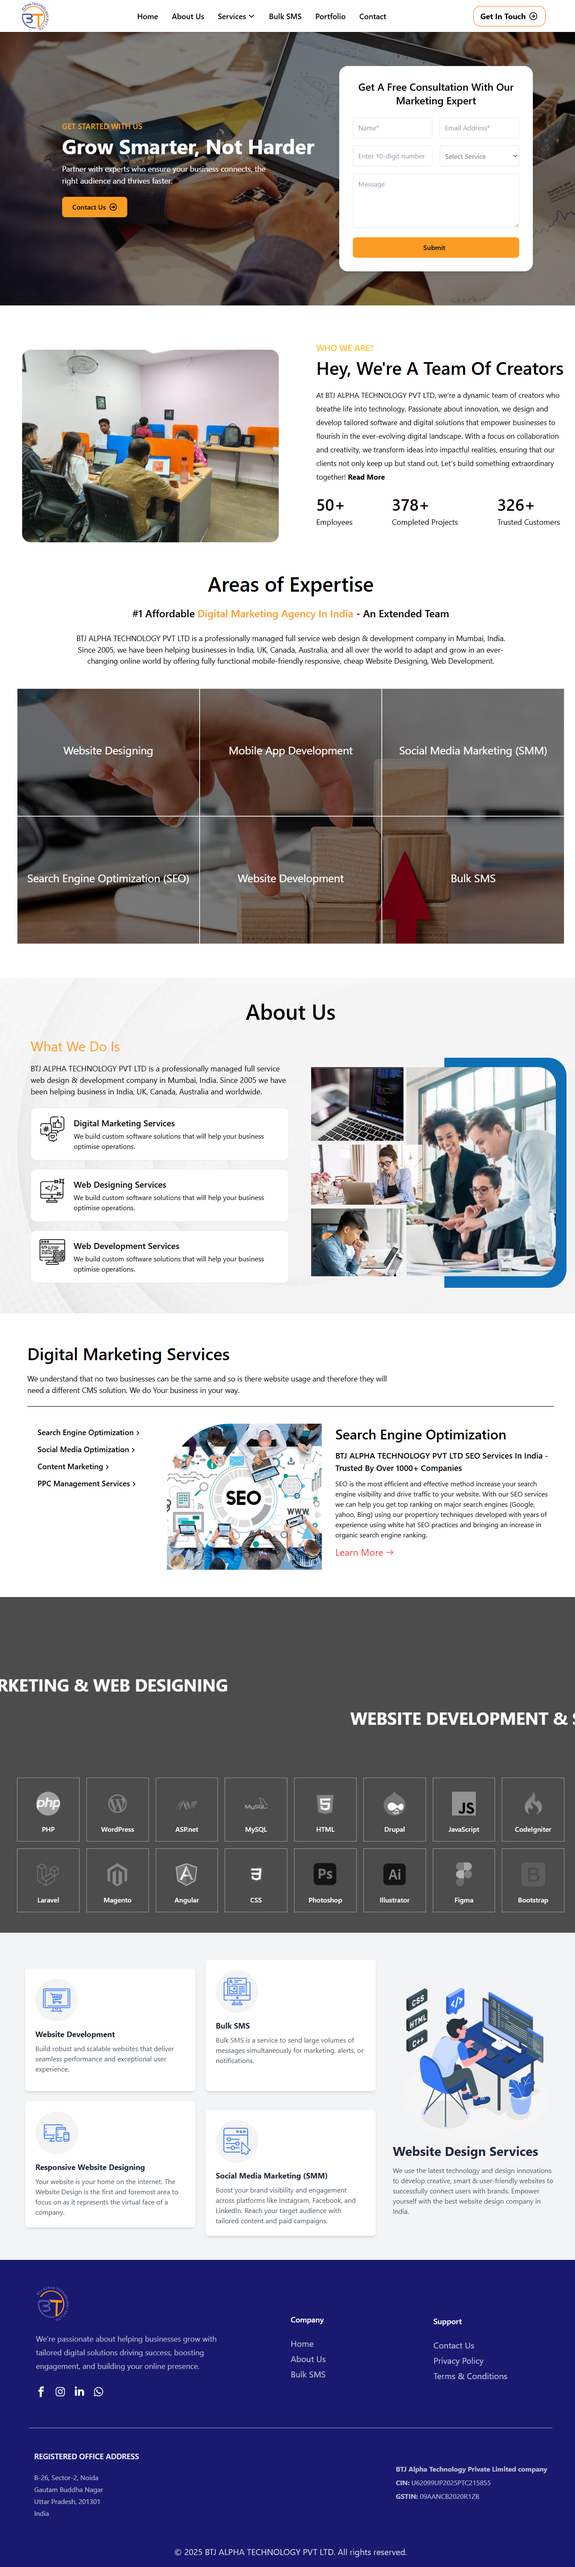
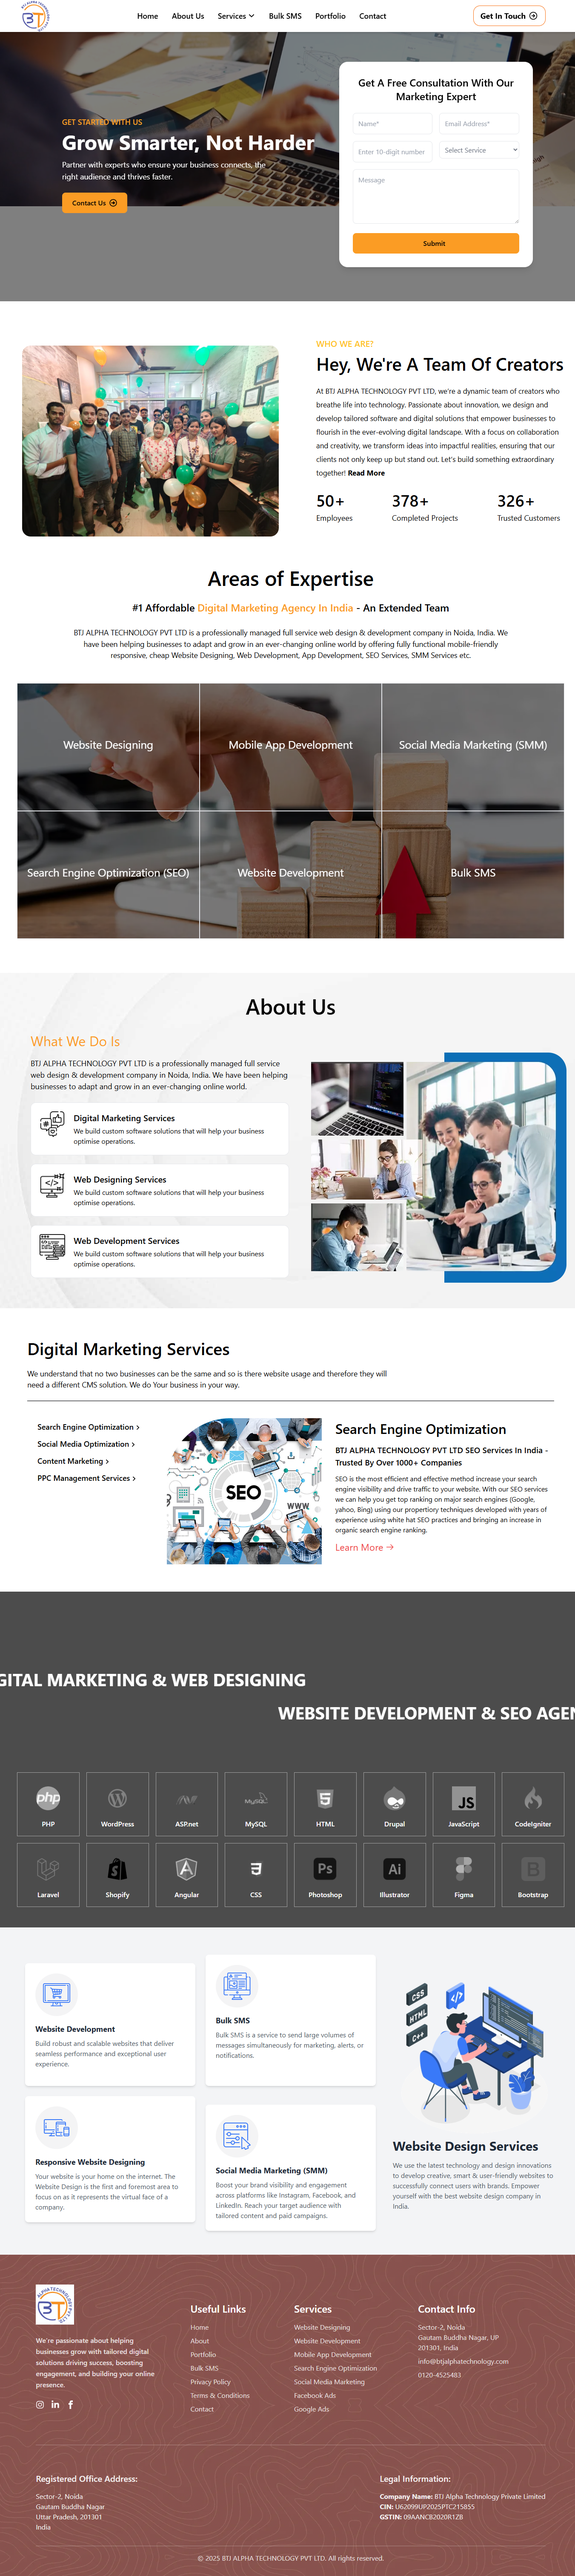
updated changes

diff --git a/src/components/HomePageData.js b/src/components/HomePageData.js
@@ -9,7 +9,7 @@ import figma from "../assets/images/Home-page/icons/figma.png";
 import illustrator from "../assets/images/Home-page/icons/illustrator.png";
 import js from "../assets/images/Home-page/icons/js.png";
 import laravel from "../assets/images/Home-page/icons/laravel.png";
-import magento from "../assets/images/Home-page/icons/magento.png";
+import shopify from "../assets/images/Home-page/icons/shopify.png";
 import mysql from "../assets/images/Home-page/icons/mysql.png";
 import photoshop from "../assets/images/Home-page/icons/photoshop.png";
 import wordpress from "../assets/images/Home-page/icons/wordpress.png";
@@ -25,7 +25,7 @@ const technologies = [
   { name: "JavaScript", icon: js },
   { name: "CodeIgniter", icon: ci },
   { name: "Laravel", icon: laravel },
-  { name: "Magento", icon: magento },
+  { name: "Shopify", icon: shopify },
   { name: "Angular", icon: angular },
   { name: "CSS", icon: css },
   { name: "Photoshop", icon: photoshop },

diff --git a/src/components/UserForm.jsx b/src/components/UserForm.jsx
@@ -95,12 +95,12 @@ const UserForm = () => {
             )}
           </div>
 
-          <div className="w-1/2">
+          <div className="w-1/2 ">
             <select
               name="service"
               value={selected}
               onChange={(e) => setSelected(e.target.value)}
-              className={`w-full p-2 border rounded-lg 
+              className={`w-full h-[50px] p-2 border rounded-lg 
                           ${selected === "" ? "text-gray-500" : "text-black"} 
                           bg-white focus:outline-none`}
               required

diff --git a/src/pages/services_pages/WebsiteDevelopment.jsx b/src/pages/services_pages/WebsiteDevelopment.jsx
@@ -381,7 +381,7 @@ function WebsiteDevelopment() {
           SEO- <span className="text-blue-800">Friendly Web Design</span>
         </h2>
         <p className="text-gray-600 max-w-3xl mx-auto mb-12">
-          our clients nurture a passion for digital growth, and it shows in
+          Our clients nurture a passion for digital growth, and it shows in
           their success. Brands that believe in outperforming the market love to
           associate with us. Greatest success lies in the success.
         </p>

diff --git a/src/pages/Home.jsx b/src/pages/Home.jsx
@@ -38,9 +38,9 @@ function Home() {
     setHoveredId(null);
   };
   
-  // useEffect(() => {
-  //   window.scrollTo({ top: 0, behavior: "smooth" });
-  // }, []);
+  useEffect(() => {
+    window.scrollTo({ top: 0, behavior: "smooth" });
+  }, []);
 
   const [activeTab, setActiveTab] = useState("SEO");
   const handleTabClick = (service) => {

diff --git a/src/pages/Portfolio.jsx b/src/pages/Portfolio.jsx
@@ -1,7 +1,5 @@
 import { useEffect } from "react";
 
-
-
 function Portfolio() {
   const images = [
     { src: "/admirer.png", alt: "Portfolio 1" },
